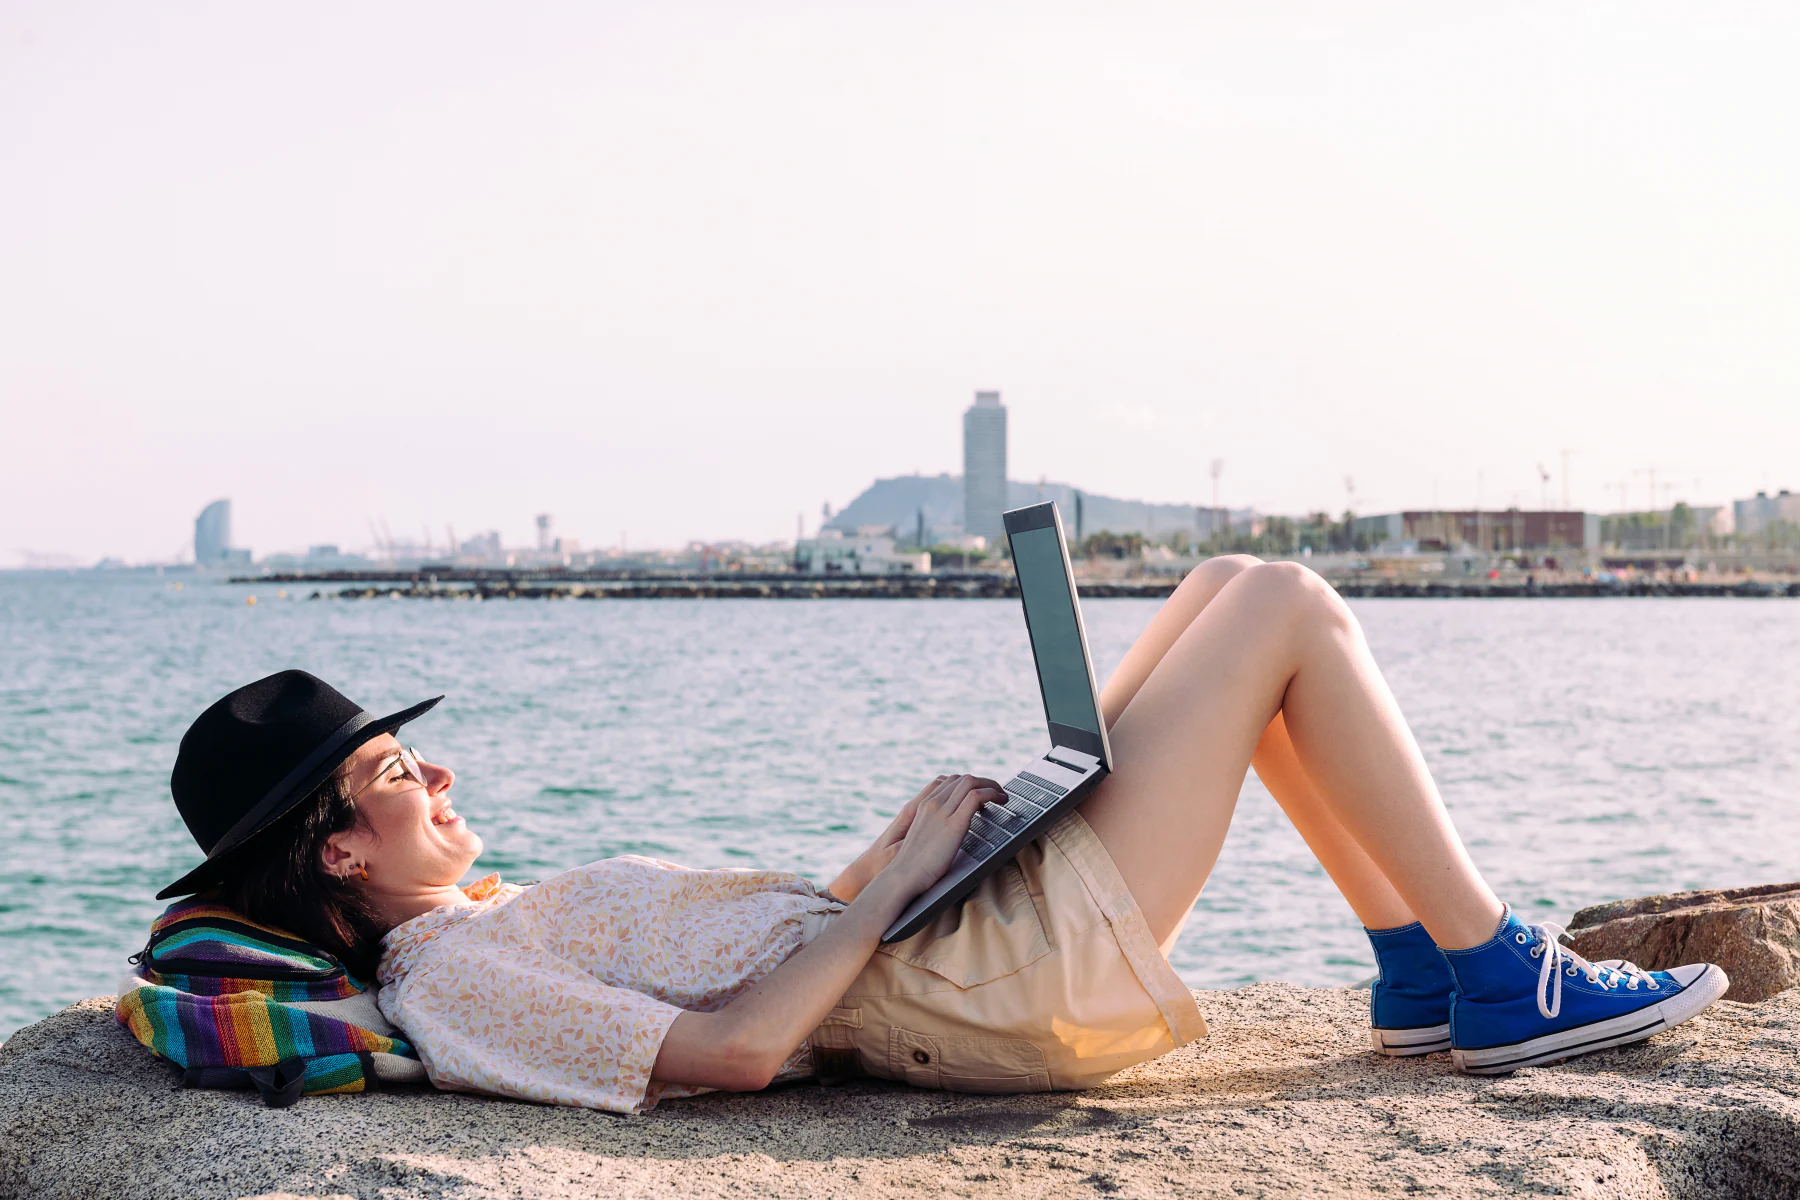
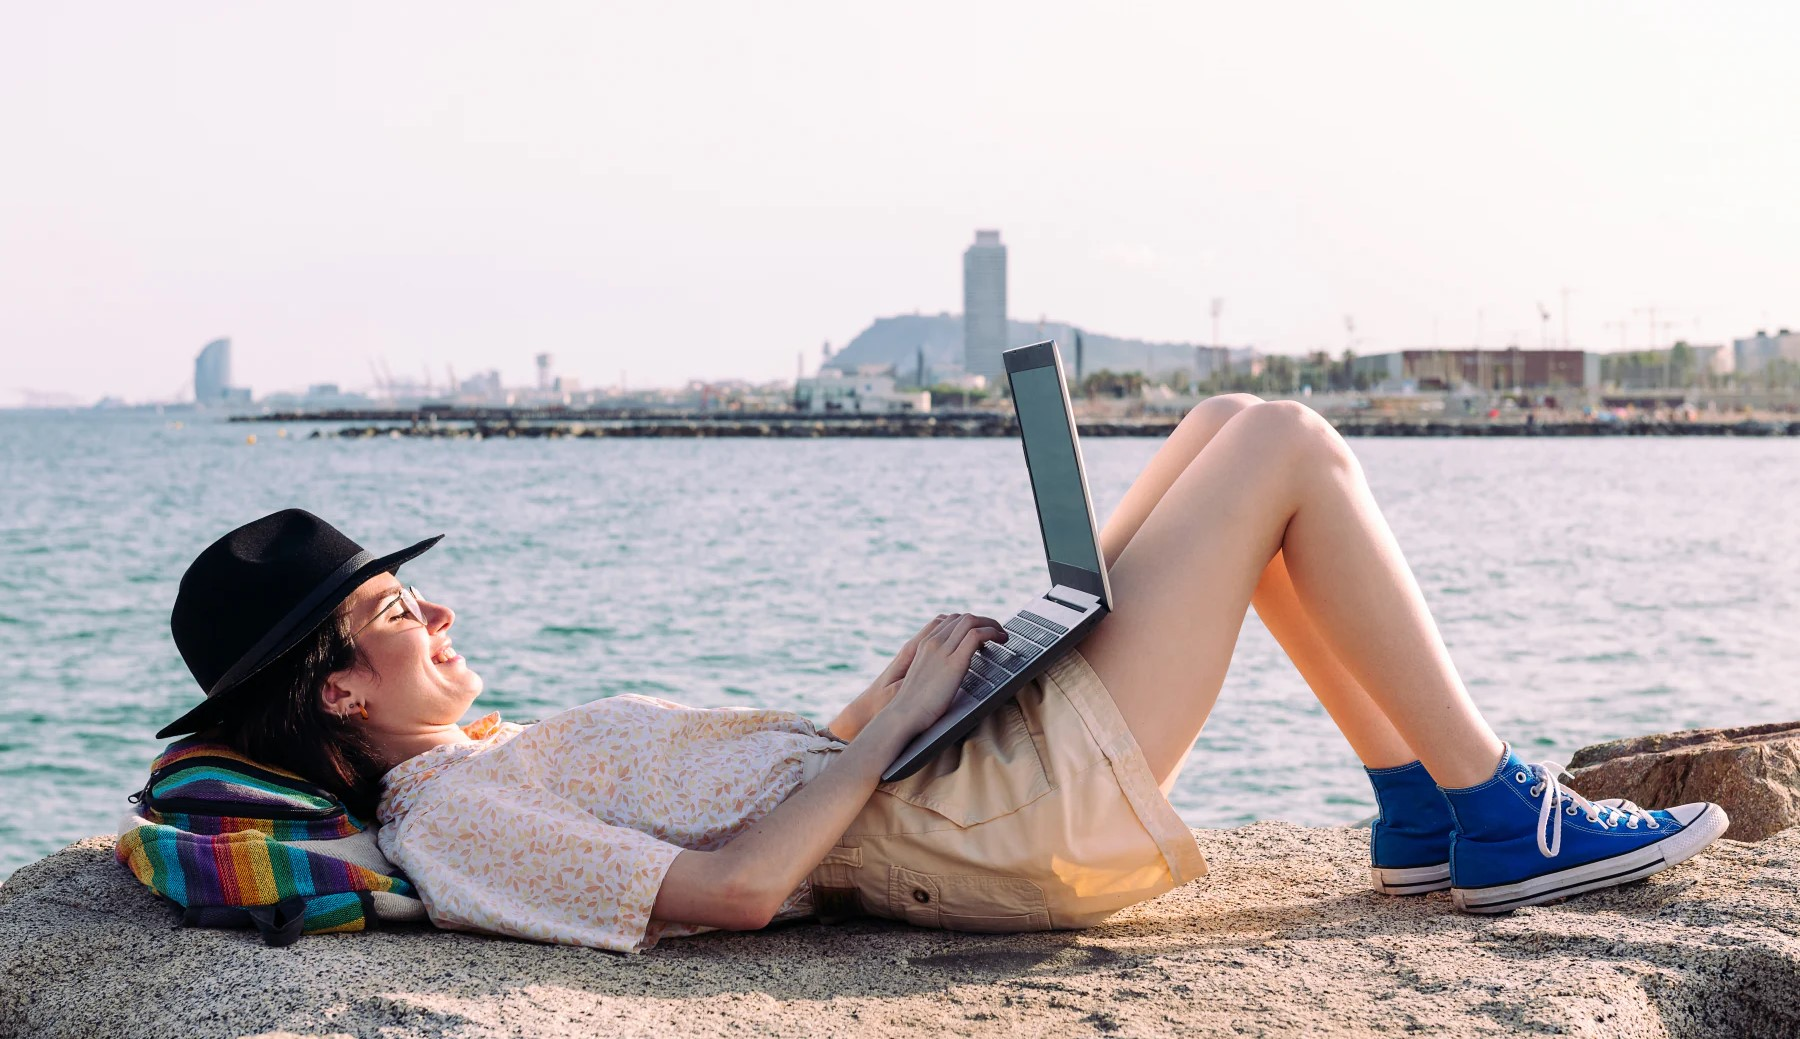
home con materialize

diff --git a/home.html b/home.html
@@ -2,49 +2,51 @@
 <html lang="es">
   <head>
     <meta charset="UTF-8" />
-    <meta http-equiv="X-UA-Compatible" content="IE=edge" />
-    <meta name="viewport" content="width=device-width, initial-scale=1.0" />
-    <link rel="stylesheet" href="css/estilos.css" />
-    <link rel="icon" href="img/isotipo.png" />
+    <meta http-equiv="X-UA-Compatible" content="IE=edge"/>
+    <meta name="viewport" content="width=device-width, initial-scale=1.0"/>
+    <link rel="stylesheet" href="css/estilos.css"/>
+    <link rel="icon" href="img/isotipo.png"/>
     <title>Cam'On</title>
     <!--Import Google Icon Font-->
-    <link
-      href="https://fonts.googleapis.com/icon?family=Material+Icons"
-      rel="stylesheet"
-    />
+    <link href="https://fonts.googleapis.com/icon?family=Material+Icons" rel="stylesheet"/>
     <!--Import materialize.css-->
-    <link
-      type="text/css"
-      rel="stylesheet"
-      href="css/materialize.min.css"
-      media="screen,projection"
-    />
-    <link href="https://fonts.cdnfonts.com/css/verdana-pro-cond" rel="stylesheet">
-    <link href="https://fonts.cdnfonts.com/css/century-gothic" rel="stylesheet">
+    <link type="text/css" rel="stylesheet" href="css/materialize.min.css" media="screen,projection"/>
+    <link href="https://fonts.cdnfonts.com/css/verdana-pro-cond" rel="stylesheet"/>
+    <link href="https://fonts.cdnfonts.com/css/century-gothic" rel="stylesheet"/>
     <!--Let browser know website is optimized for mobile-->
-    <meta name="viewport" content="width=device-width, initial-scale=1.0" />
+    <meta name="viewport" content="width=device-width, initial-scale=1.0"/>
   </head>
 
   <body>
-    <div class="home">
-      <div class="flex-home">
-        <a class="isotipo" href="home.html">
-          <img src="img/isotipo.png" />
-        </a>
-        <div class="logotipo">
-          <img src="img/logotipo.png" />
+
+   
+    <nav class="header">
+        <div class="nav-wrapper ">
+          <a href="#!" class="isotipo brand-logo"><img src="img/isotipo.png"/></a>
+          <a href="#!" class="logotipo brand-logo center"><img src="img/logotipo.png"/></a>
+          <a href="#" data-target="mobile-demo" class="sidenav-trigger"><i class="material-icons"> menu </i></a>
+          <ul class="right hide-on-med-and-down">
+            <li><a href="guias.html"> Guías </a></li>
+            <li><a href="planificador.html"> Planificador </a></li>
+            <li><a href="tienda.html"> Tienda </a></li>
+            <li><a href="cuenta.html"> Cuenta </a></li>
+          </ul>
         </div>
-        <div class="menu">
-          <a href="home.html"> Inicio </a>
-          <a href="guias.html"> Guías </a>
-          <a href="planificador.html"> Planificador </a>
-          <a href="tienda.html"> Tienda </a>
-          <a href="cuenta.html"> Cuenta </a>
+    </nav> 
+  
+    <ul class="sidenav" id="mobile-demo">
+      <li><a href="guias.html"> Guías </a></li>
+      <li><a href="planificador.html"> Planificador </a></li>
+      <li><a href="tienda.html"> Tienda </a></li>
+      <li><a href="cuenta.html"> Cuenta </a></li>
+    </ul>
+
+     <div class="home">
+        <img src="img/nomad.jpg" alt="Guías" />
+        <div class="textohome">
+          <h2>Planificá tu viaje por Argentina</h2>
+          <a class="boton" href=""> Empezar </a>
         </div>
-        <div class="linea"></div>
-      </div>
-      <h2>Planificá tu viaje por Argentina</h2>
-      <a class="boton" href=""> Empezar </a>
     </div>
 
     <div class="home-body">
@@ -81,7 +83,7 @@
       </div>
     </div>
 
-    <div class="home-productos"> 
+    <!-- <div class="home-productos"> 
       <h1>PRODUCTOS MAS VENDIDOS</h1>
       <div class="flex-productos">
         <div class="producto">
@@ -105,7 +107,8 @@
           <a class="botonproductos" href="">Explorar</a>
         </div>
       </div>
-    </div>
+    </div> -->
+
     <!--JavaScript at end of body for optimized loading-->
     <script type="text/javascript" src="js/materialize.min.js"></script>
   </body>

diff --git a/css/estilos.css b/css/estilos.css
@@ -1,22 +1,3 @@
-body {
-  margin: 0px;
-  background-color: #EADDC4;
-}
-
-.isotipo img {
-  max-width: 120px;
-  max-height: 110px;
-}
-
-.logotipo img {
-  max-width: 450px;
-  max-height: 55px;
-}
-
-.logotipo{
-  margin-left: 20%;
-}
-
 .menu a {
   padding: 5px;
   font-family: "Century Gothic";
@@ -26,55 +7,53 @@ body {
   
 }
 
-.menu a:active{
-  font-weight: bold;
+.header .isotipo img{
+  max-width: 100px;
+  max-height: 80px;
+  background-color: transparent;
+  margin-left: 10px;
+  padding-bottom: 5px;
 }
 
+.header .logotipo  img{
+  max-width: 200px;
+  max-height: 200px;
+  margin-top: 15px;
 
-.linea {
-  height: 1px;
-  width: 1800px;
-  background-color: #573c14;
-  margin-left: 110px;
-  align-self: center;
 }
 
-.flex-home {
-  margin: 0px 40px 0px 40px;
-  display: flex;
-  flex-wrap: wrap;
-  justify-content: space-between;
-  align-content: space-between;
+.header{
+  height: 90px;
+  background-color: transparent;
+  position: absolute;
+ 
 }
 
-.flex-home > div {
-  align-self: center;
+.header a{
+  padding: 5px;
+  font-family: "Century Gothic";
+  font-size: 18px;
+  color: #573c14;
+  text-decoration: none;
+  margin: 10px 10px 0px 0px;
+
 }
 
-.flex-home {
-  margin: 0px 40px 0px 40px;
-  display: flex;
-  flex-wrap: wrap;
-  justify-content: space-between;
-  align-content: space-between;
+.home img{
+  width: 100%;
 }
 
-.home {
-  background-image: url('../img/nomad.jpg');
-
-  background-position: center;
-  background-repeat: no-repeat;
-  background-size: cover;
-  margin-top: 0px;
-  height: 950px;
+.home{
   text-align: center;
+  margin-bottom: 50px;
 }
 
-.home::before{
-  content: '';
-  opacity: 80%;
+.textohome{
+  position: absolute;
+  top: 15%;
+  left: 50%;
+  transform: translate(-50%, -50%);
 }
-
 
 .home .boton{
   color:black;
@@ -85,7 +64,6 @@ body {
   color:#573C14;
   font-family: 'Century Gothic', sans-serif;
 }
-
 
 .boton{
   color:white;
